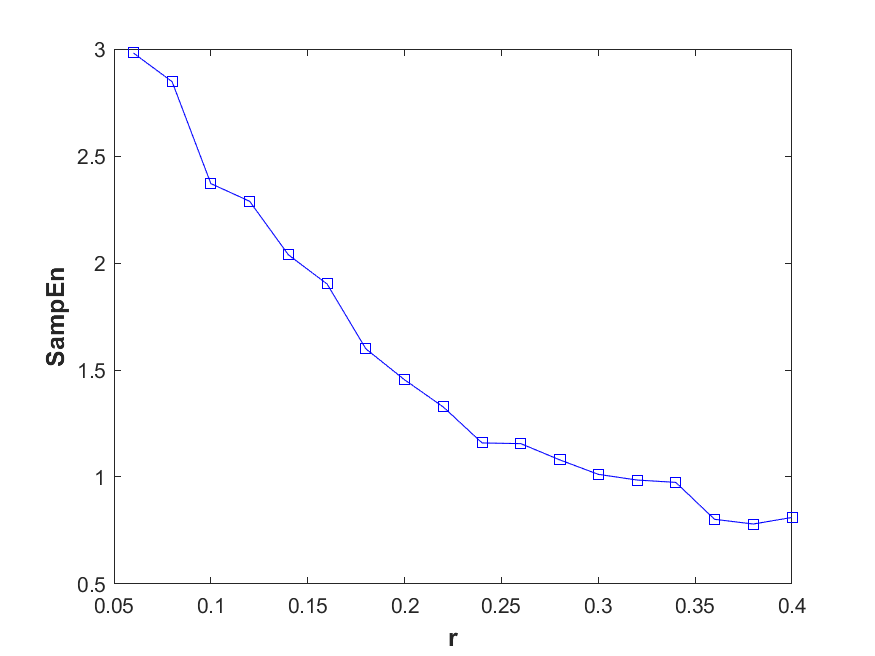
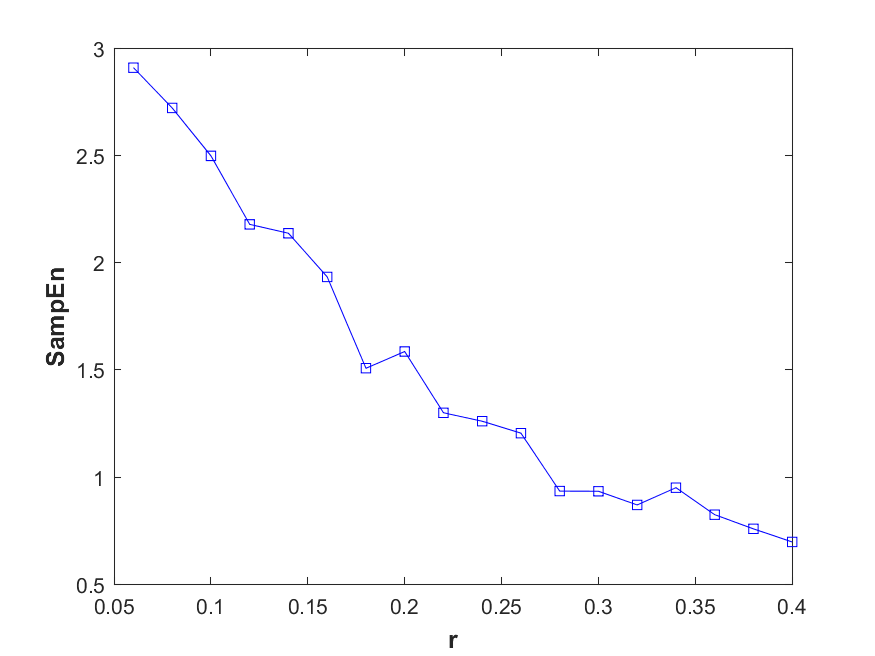
Adding multi-thread support

diff --git a/code/main.m b/code/main.m
@@ -1,85 +1,13 @@
 % ---------------------
-% This script calculates the SampEn signatures and metrics for a given image
+% This script calculates the SampEn signatures and metrics for a given
+% dataset
 %
 % [1] Rozendo, G. B., Nascimento, M. Z., Roberto G. F., Faria, P. R., Silva, A. B., Tosta, T. A. A., Neves, L. A. (2022). Classification of Non-Hodgkin Lymphomas Based on Sample Entropy Signatures. Expert Systems with Applications.
 % ---------------------
 
-dataset_path = '../DataSet/';
-dataset_dir = dir('../DataSet/');
+m_to_calculate = 4;
 
-for class_index = 1 : length(dataset_dir)
-    % Filtering the '.' directories
-    if not(endsWith(dataset_dir(class_index).name, '.'))
-        class_name = dataset_dir(class_index).name; % Class under interaction
-        class_path = strcat(dataset_path, class_name);
-        class_dir = dir(class_path);
-        
-        for image_index = 1 : length(class_dir)
-            if endsWith(class_dir(image_index).name, ".png")
-                image_path = strcat(class_path, '/', class_dir(image_index).name);
-                fprintf("Doing for: %s\n", image_path);
-                % Starting the original algorithm :^)
-                % Input image
-                img = imread(image_path);
-                
-                % SampEn signatures (Section 3.2.1 in [1])
-                sig = signatures(img);
-                aux = zeros(4, 18);
-                
-                aux(1, :) = sig(1, 1:18); % signature for m = 1 
-                aux(2, :) = sig(1, 19:36); % signature for m = 2
-                aux(3, :) = sig(1, 37:54); % signature for m = 3
-                aux(4, :) = sig(1, 55:72); % signature for m = 4
-                
-                disp(aux(1, :));
-
-                % SampEn metrics (Section 3.2.2 in [1])
-                met = zeros(4, 4);
-                
-                met(1, :) = metrics(aux(1, :)); % metrics for m = 1
-                met(2, :) = metrics(aux(2, :)); % metrics for m = 2
-                met(3, :) = metrics(aux(3, :)); % metrics for m = 3
-                met(4, :) = metrics(aux(4, :)); % metrics for m = 4
-                
-                
-                % Saving the results ----------------
-                
-                % Plot signatures
-                % For m = 1
-                plot(0.06:0.02:0.4, aux(1, :), 'b-s')
-                xlabel('r', 'FontSize', 12, 'FontWeight','bold')
-                ylabel('SampEn', 'FontSize', 12, 'FontWeight','bold')
-                
-                saveas(gcf, strcat('../results/', 'm1_', class_dir(image_index).name));
-
-                % For m = 2
-                plot(0.06:0.02:0.4, aux(2, :), 'b-s')
-                xlabel('r', 'FontSize', 12, 'FontWeight','bold')
-                ylabel('SampEn', 'FontSize', 12, 'FontWeight','bold')
-                
-                saveas(gcf, strcat('../results/', 'm2_', class_dir(image_index).name));
-                
-                % For m = 3
-                plot(0.06:0.02:0.4, aux(3, :), 'b-s')
-                xlabel('r', 'FontSize', 12, 'FontWeight','bold')
-                ylabel('SampEn', 'FontSize', 12, 'FontWeight','bold')
-                
-                saveas(gcf, strcat('../results/', 'm3_', class_dir(image_index).name));
-                
-                % For m = 4
-                plot(0.06:0.02:0.4, aux(4, :), 'b-s')
-                xlabel('r', 'FontSize', 12, 'FontWeight','bold')
-                ylabel('SampEn', 'FontSize', 12, 'FontWeight','bold')
-                
-                saveas(gcf, strcat('../results/', 'm4_', class_dir(image_index).name));
-                  
-                % Print metrics
-                fprintf("\nSampEn signatures metrics:\n");
-                display(met)
-
-            end
-        end
-
-    end
+parfor m = 1 : m_to_calculate
+   parallel_execution(m);
 end
 

diff --git a/code/parallel_execution.m b/code/parallel_execution.m
@@ -1,0 +1,50 @@
+function parallel_execution(m)
+
+    dataset_path = '../DataSet/';
+    dataset_dir = dir('../DataSet/');
+    
+    for class_index = 1 : length(dataset_dir)
+        % Filtering the '.' directories
+        if not(endsWith(dataset_dir(class_index).name, '.'))
+            class_name = dataset_dir(class_index).name; % Class under interaction
+            class_path = strcat(dataset_path, class_name);
+            class_dir = dir(class_path);
+            
+            for image_index = 1 : length(class_dir)
+                if endsWith(class_dir(image_index).name, ".png")
+                    image_path = strcat(class_path, '/', class_dir(image_index).name);
+                    fprintf("Doing for: %s\n", image_path);
+                    % Starting the original algorithm :^)
+                    % Input image
+                    img = imread(image_path);
+                    
+                    % SampEn signatures (Section 3.2.1 in [1])
+                    sig = signatures(img, m);
+                    aux = zeros(1, 18);
+                    
+                    aux(1, :) = sig(1, 1:18); % signature for m 
+                    
+                    disp(aux(1, :));
+    
+                    % SampEn metrics (Section 3.2.2 in [1])
+                    met = zeros(1, 4);
+                    
+                    met(1, :) = metrics(aux(1, :)); % metrics for m
+                    
+                    % Saving the results ----------------
+                    
+                    % Plot signatures
+                    % For m = 1
+                    plot(0.06:0.02:0.4, aux(1, :), 'b-s')
+                    xlabel('r', 'FontSize', 12, 'FontWeight','bold')
+                    ylabel('SampEn', 'FontSize', 12, 'FontWeight','bold')
+                    
+                    saveas(gcf, strcat('../results/', strcat('m', string(m), '_'), class_dir(image_index).name));
+                    
+                    fprintf("\nSampEn signatures metrics:\n");
+                    display(met)
+                end
+            end
+    
+        end
+    end

diff --git a/code/signatures.m b/code/signatures.m
@@ -1,4 +1,4 @@
-function [ sig ] = signatures(img)
+function [ sig ] = signatures(img, m)
     
   % ---------------------
   % This function calculates the SampEn signatures for a given image (Section 3.2.1 in [1])
@@ -12,12 +12,10 @@ function [ sig ] = signatures(img)
   sig = zeros(1, 72);
   
   i = 1;
-  for m = 1 : 4
-    for r = 0.06 : 0.02 : 0.4
-      fprintf("Calculating SampEn for m = %d and r = %f ...\n", m, r);
-      sig(1, i) = avr_SampEn(img, m, r, v, n); % Equation 9 in [1]
-      i = i + 1;
-    end
-  end
+   for r = 0.06 : 0.02 : 0.4
+     fprintf("Calculating SampEn for m = %d and r = %f ...\n", m, r);
+     sig(1, i) = avr_SampEn(img, m, r, v, n); % Equation 9 in [1]
+     i = i + 1;
+   end
 
 end
